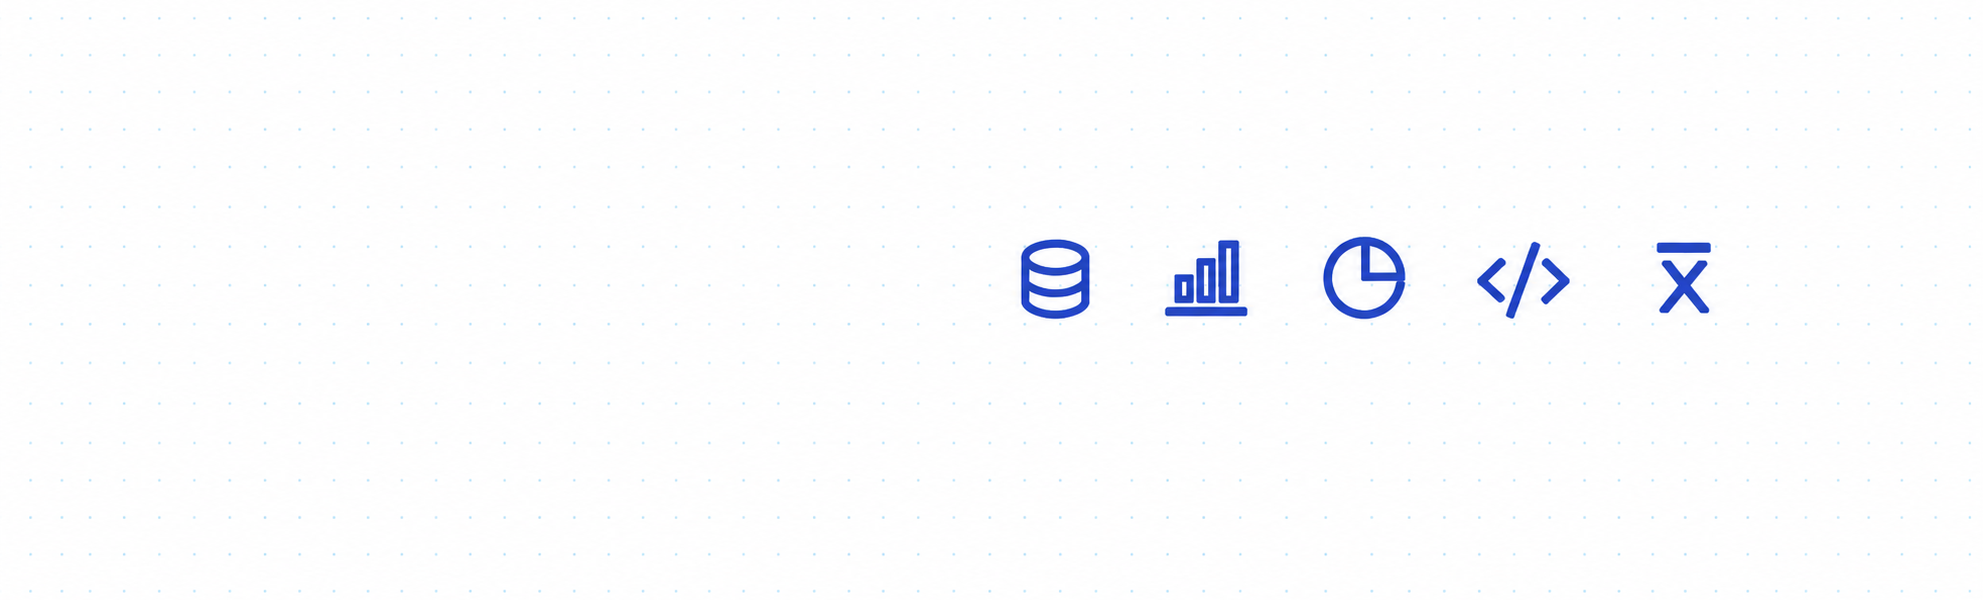
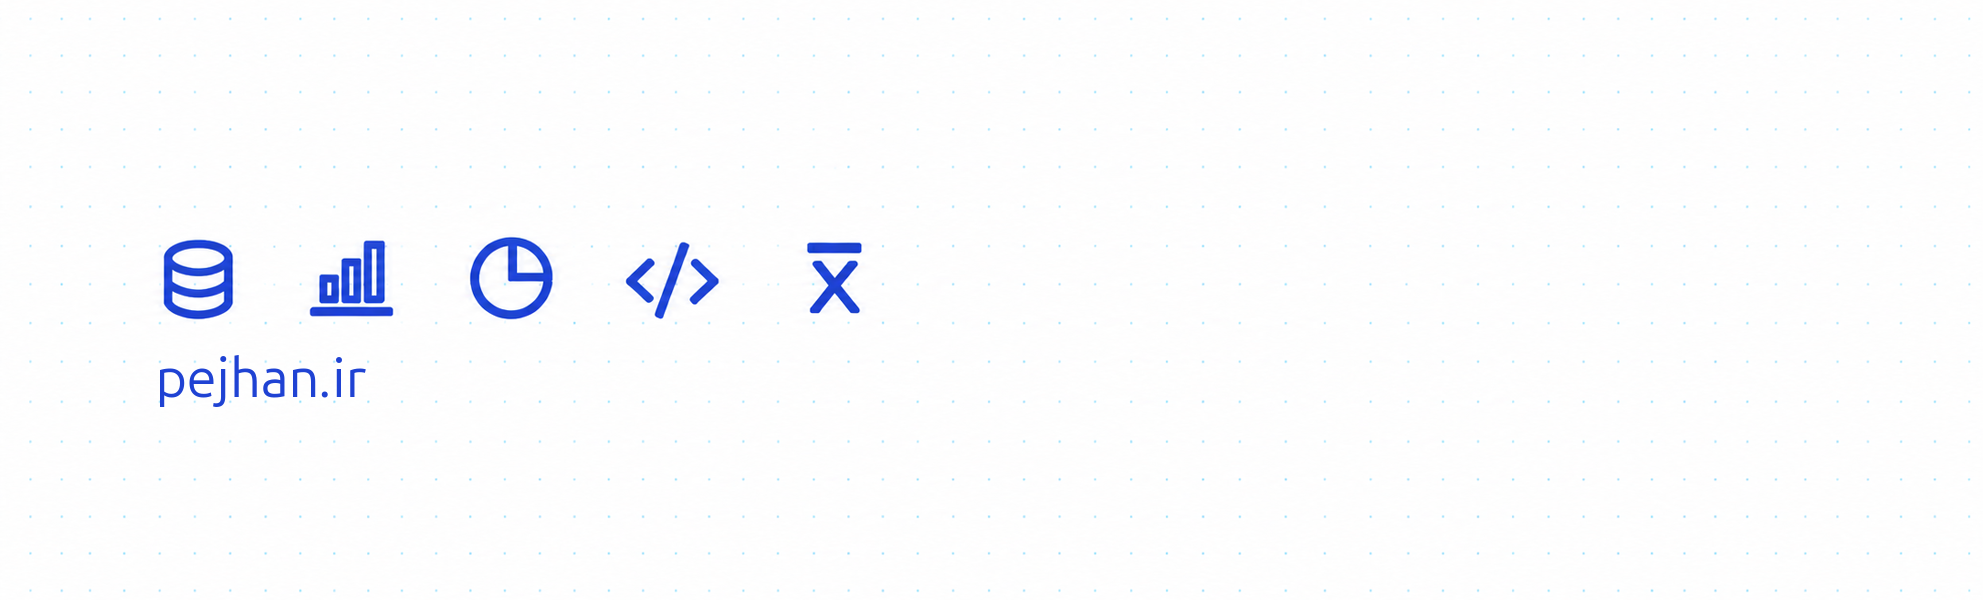
* Cover photo ono readme.md

diff --git a/README.md b/README.md
@@ -1,13 +1,3 @@
-![Five blue data and programming icons on a white background with pale blue dots](assets/images/profile-header.png)
-
-# Pezhman Aliabadi — Connecting the Dots
-
-> Everything is and can be connected; it is up to us to find the pattern.
-
-I'm a data analyst and BI developer exploring ideas through data, code, and curiosity. This is a collection of practical lessons, experiments, and small tools from that work.
-
-🌐 [Visit pejhan.ir](https://pejhan.ir)
-
 ## 📝 Blog
 
 - **[Finding order where there seem to be None](https://www.linkedin.com/pulse/finding-order-where-seem-none-pezhman-aliabadi-gkqif)** — Use foreign-key relationships and recursive SQL to find the order for migrating data between related tables.
@@ -25,3 +15,5 @@ I'm a data analyst and BI developer exploring ideas through data, code, and curi
 Often working with SQL, Python, statistics, Power BI, and data modeling. Still learning how to ask better questions, explain results, and document what worked.
 
 [GitHub](https://github.com/pejhan) · [LinkedIn](https://www.linkedin.com/in/pejhan) · [Telegram](https://t.me/pejhan)
+
+[![Five blue data and programming icons with pejhan.ir on a white background with pale blue dots](assets/images/profile-header.png)](https://pejhan.ir)
